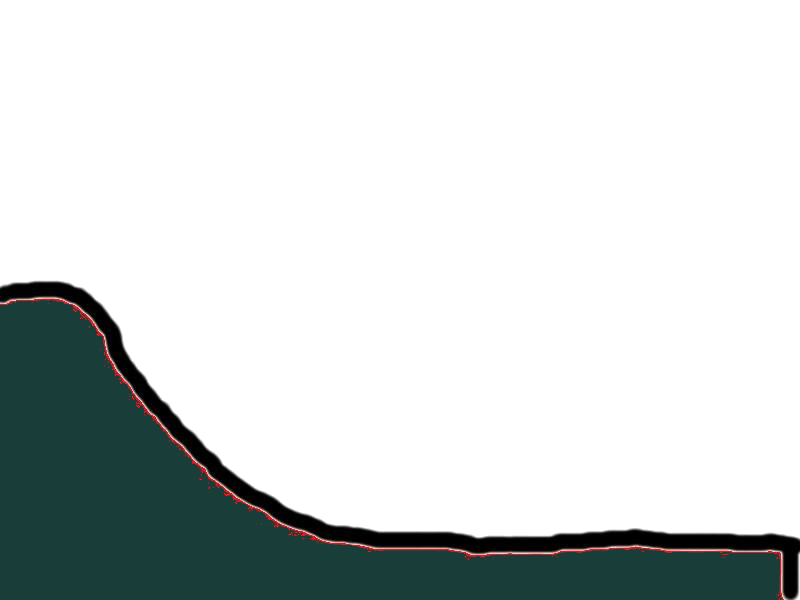
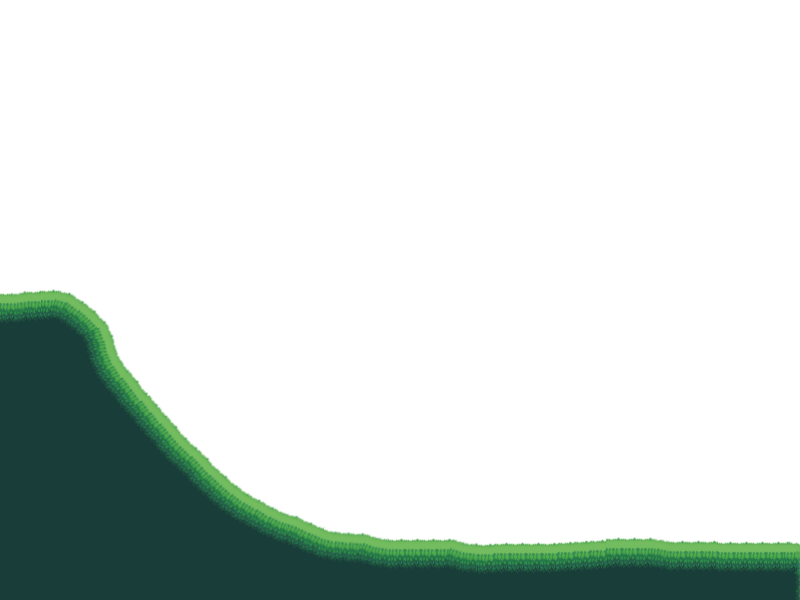
Created border and fixed alot of the art... DAMN this is hard work...well not really hard...but super redundant/.//

Changed region(s): [[0.0, 0.45, 1.0, 1.0]]

diff --git a/main.js b/main.js
@@ -26,7 +26,7 @@ var jumpButton;
 var ifCanJump = true;
 
 //------------TESTING PURPOSES
-var isDebug = true;
+var isDebug = false;
 var godmode = 0;
 
 //----------Pause Control-----------
@@ -72,6 +72,7 @@ Game.main.prototype={
         this.load.image('terr1-5','assets/world/forest/terr1-5.png');
         this.load.image('terr1-6','assets/world/forest/terr1-6.png');
         this.load.image('terr1-7','assets/world/forest/terr1-7.png');
+        this.load.image('terr-border','assets/world/forest/terr-border.png');
         this.load.image('water1-1','assets/world/forest/water1-1.png');
         //UI
         this.load.image('continue','assets/UI/continue.png');
@@ -153,6 +154,8 @@ Game.main.prototype={
         this.terraincreator('terr-null',2000,2057,playerCollisionGroup,isJumpCollisionGroup,false);
         this.terraincreator('terr1-4',2800,1595,playerCollisionGroup,isJumpCollisionGroup,true);
         this.terraincreator('terr-null',2800,2195,playerCollisionGroup,isJumpCollisionGroup,false);
+        this.terraincreator('terr-border',3196,2195,playerCollisionGroup,isJumpCollisionGroup,false);
+        //water pool happens then more terrain
         this.terraincreator('terr1-5',4000,1527,playerCollisionGroup,isJumpCollisionGroup,true);
         this.terraincreator('terr-null',4000,2127,playerCollisionGroup,isJumpCollisionGroup,false);
         this.terraincreator('terr1-6',4800,1350,playerCollisionGroup,isJumpCollisionGroup,true);
